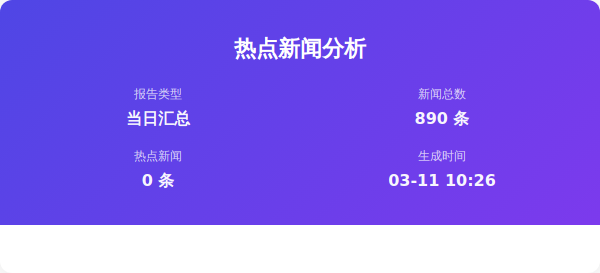
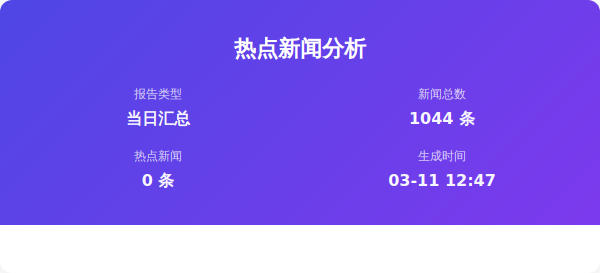
Auto update by GitHub Actions at Wed Mar 11 12:47:37 CST 2026

Changed region(s): [[0.66, 0.4103, 0.81, 0.4689], [0.75, 0.6154, 0.84, 0.7033]]

diff --git a/output/2026年03月11日/html/当日汇总.html b/output/2026年03月11日/html/当日汇总.html
@@ -357,7 +357,7 @@
                     </div>
                     <div class="info-item">
                         <span class="info-label">新闻总数</span>
-                        <span class="info-value">890 条</span>
+                        <span class="info-value">1044 条</span>
                     </div>
                     <div class="info-item">
                         <span class="info-label">热点新闻</span>
@@ -365,7 +365,7 @@
                     </div>
                     <div class="info-item">
                         <span class="info-label">生成时间</span>
-                        <span class="info-value">03-11 10:26</span>
+                        <span class="info-value">03-11 12:47</span>
                     </div>
                 </div>
             </div>